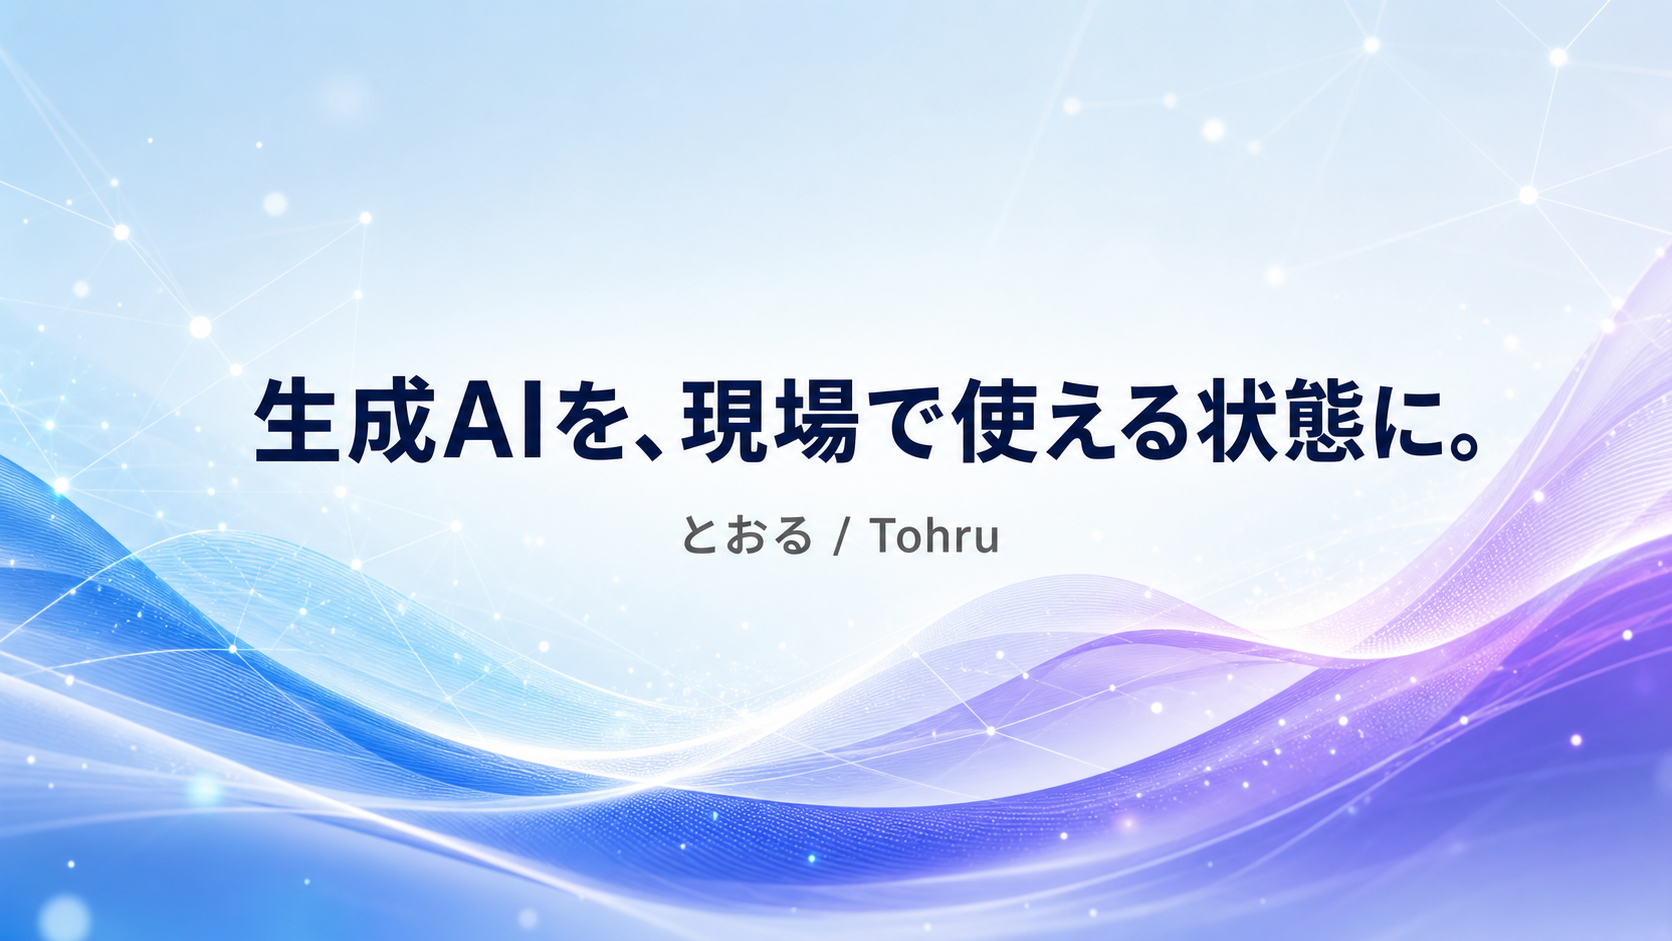
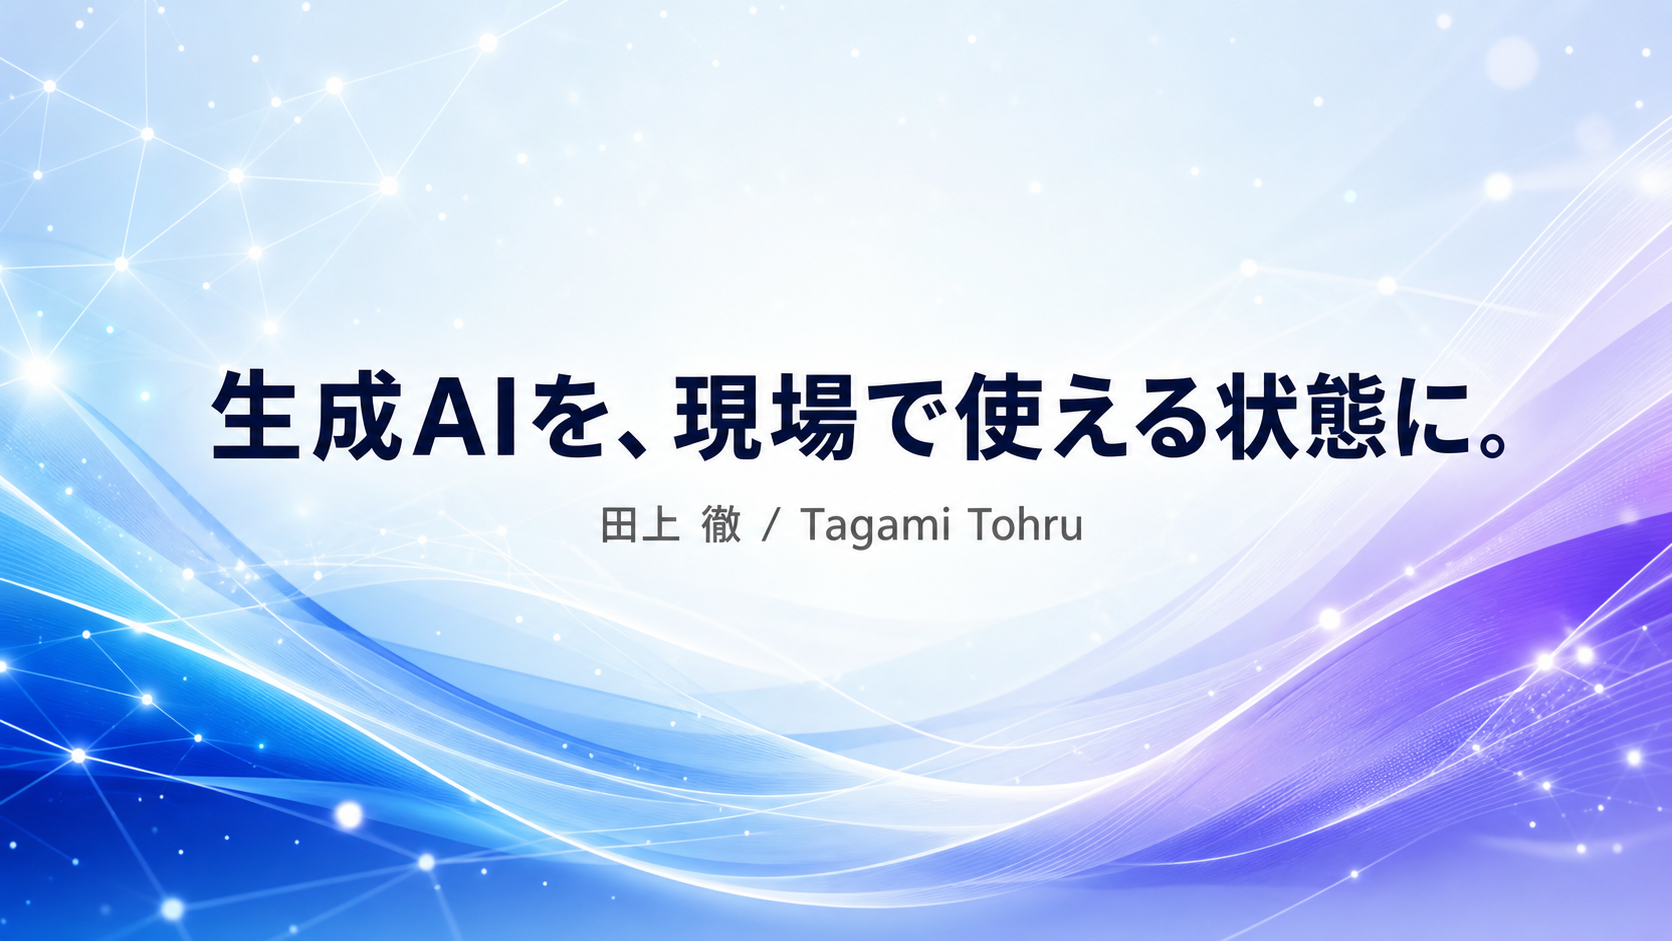
本名表記＋Codexレビュー対応: ご依頼の流れ・FAQ追加、実績の静的HTML化、構造化データ、CTA出し分け

diff --git a/index.html b/index.html
@@ -5,13 +5,13 @@
   <meta name="viewport" content="width=device-width, initial-scale=1.0">
 
   <!-- ★SEO: タイトル・説明文はここで編集 -->
-  <title>とおる｜AI活用支援とライティングのポートフォリオ</title>
-  <meta name="description" content="生成AIを現場で使える状態にするAIコンサルタント・とおるのポートフォリオ。AI活用支援、セミナー講師、ライティング、Web制作のご相談はnoteのDMからどうぞ。">
+  <title>田上徹｜AI活用支援とライティングのポートフォリオ</title>
+  <meta name="description" content="生成AIを現場で使える状態にするAIコンサルタント・田上徹（Tagami Tohru）のポートフォリオ。中小企業・個人事業主向けのAI活用支援、研修、ライティング、Web制作。初回相談は無料です。">
 
   <!-- OGP -->
   <meta property="og:type" content="website">
-  <meta property="og:title" content="とおる｜AI活用支援とライティングのポートフォリオ">
-  <meta property="og:description" content="生成AIを現場で使える状態にする。AI活用支援・セミナー講師・ライティング・Web制作のポートフォリオ。">
+  <meta property="og:title" content="田上徹｜AI活用支援とライティングのポートフォリオ">
+  <meta property="og:description" content="生成AIを、現場で使える状態に。中小企業・個人事業主向けのAI活用支援・研修・ライティング・Web制作。初回相談無料。">
   <meta property="og:url" content="https://tohru-ai.github.io/portfolio/">
   <meta property="og:image" content="https://tohru-ai.github.io/portfolio/images/ogp.png">
   <meta name="twitter:card" content="summary_large_image">
@@ -25,8 +25,20 @@
     gtag('js', new Date());
     gtag('config', 'G-KDS57TPQ6T');
   </script>
-  <!-- ★Search Console: HTMLタグ認証を使う場合は下のコメントを外して content を差し替え -->
-  <!-- <meta name="google-site-verification" content="ここに認証コード"> -->
+  <!-- 構造化データ: 検索エンジンに「誰が何を提供するサイトか」を伝える -->
+  <script type="application/ld+json">
+  {
+    "@context": "https://schema.org",
+    "@type": "Person",
+    "name": "田上 徹",
+    "alternateName": "Tagami Tohru",
+    "url": "https://tohru-ai.github.io/portfolio/",
+    "image": "https://tohru-ai.github.io/portfolio/images/ogp.png",
+    "jobTitle": "AIコンサルタント・セミナー講師・ウェブライター",
+    "sameAs": ["https://note.com/tohru_ai"],
+    "knowsAbout": ["生成AI活用支援", "AI研修・セミナー", "ライティング", "Web制作"]
+  }
+  </script>
 
   <link rel="icon" type="image/svg+xml" href="images/favicon.svg">
 
@@ -40,15 +52,14 @@
   <!-- 固定ヘッダー -->
   <header class="site-header">
     <div class="container header-inner">
-      <!-- ★名前: 漢字フルネーム確定後に差し替え -->
-      <a href="#top" class="logo">とおる <span class="logo-en">Tohru</span></a>
+      <a href="#top" class="logo">田上 徹 <span class="logo-en">Tagami Tohru</span></a>
       <nav class="global-nav">
         <a href="#services">できること</a>
-        <a href="#reasons">選ばれる理由</a>
         <a href="#works">実績</a>
+        <a href="#flow">ご依頼の流れ</a>
         <a href="#profile">プロフィール</a>
       </nav>
-      <a href="#contact" class="btn btn-header">DMで相談</a>
+      <a href="#contact" class="btn btn-header">無料相談</a>
     </div>
   </header>
 
@@ -60,10 +71,10 @@
         <p class="hero-tagline">生成AIを"使わせる"人</p>
         <h1 class="hero-title">生成AIを、<br class="sp-only"><span class="grad-text">現場で使える状態に。</span></h1>
         <p class="hero-lead">
-          AI活用支援・セミナー講師・ライティング・Web制作。<br>
+          中小企業・個人事業主のためのAI活用支援。<br>
           「知っている」で終わらせず、あなたの業務が実際に軽くなるところまで伴走します。
         </p>
-        <a href="#contact" class="btn btn-primary btn-large">DMで相談する</a>
+        <a href="#contact" class="btn btn-primary btn-large">無料で相談してみる</a>
       </div>
     </section>
 
@@ -92,22 +103,22 @@
         <p class="section-lead">4つの領域で、個人事業主・中小企業のみなさまをサポートします。</p>
         <div class="card-grid card-grid-4">
           <div class="card">
-            <img src="images/service-ai.png" alt="" class="card-icon" loading="lazy">
+            <img src="images/service-ai.png" alt="AI活用支援・コンサルのイメージイラスト" class="card-icon" loading="lazy">
             <h3>AI活用支援・コンサル</h3>
             <p>業務の棚卸しからツール選定・プロンプト設計まで。ChatGPT・Claude などの生成AIを、あなたの業務で実際に回る形に落とし込みます。</p>
           </div>
           <div class="card">
-            <img src="images/service-seminar.png" alt="" class="card-icon" loading="lazy">
+            <img src="images/service-seminar.png" alt="AIセミナー・研修のイメージイラスト" class="card-icon" loading="lazy">
             <h3>AIセミナー・研修</h3>
             <p>100名以上参加のセミナー登壇実績。未経験の方でも「明日から使える」状態を目指す、実演中心の研修を設計・実施します。</p>
           </div>
           <div class="card">
-            <img src="images/service-writing.png" alt="" class="card-icon" loading="lazy">
+            <img src="images/service-writing.png" alt="ライティング・note執筆のイメージイラスト" class="card-icon" loading="lazy">
             <h3>ライティング・note執筆</h3>
             <p>ウェブライター歴4年。SEO記事・note記事・導入事例の執筆など、読まれて成果につながる文章を書きます。</p>
           </div>
           <div class="card">
-            <img src="images/service-dev.png" alt="" class="card-icon" loading="lazy">
+            <img src="images/service-dev.png" alt="Web制作・ツール開発のイメージイラスト" class="card-icon" loading="lazy">
             <h3>Web制作・ツール開発</h3>
             <p>ホームページ・LP制作から業務効率化ツールの開発まで。AIを活用した低コスト・短納期の制作が得意です。</p>
           </div>
@@ -144,8 +155,28 @@
       <div class="container">
         <h2 class="section-title">実績・事例</h2>
         <p class="section-lead">導入事例や登壇レポートを note で公開しています。</p>
-        <div class="works-grid" id="works-grid">
-          <!-- articles.js から main.js が描画 -->
+        <!-- 記事を増やすときは下の <a class="work-card"> ブロックを1個コピーして書き換える -->
+        <div class="works-grid">
+          <a class="work-card" href="https://note.com/tohru_ai/n/n369f552c0dbd" target="_blank" rel="noopener">
+            <span class="work-tag">導入事例</span>
+            <h3 class="work-title">接骨院の予約管理はAIエージェントで変わる。Claude Code導入実演で見えた可能性とは</h3>
+            <p class="work-desc">独立した接骨院院長へのClaude Codeコンサルティング事例。AIエージェント導入の可能性を個人事業主・経営者向けに紹介。</p>
+          </a>
+          <a class="work-card" href="https://note.com/tohru_ai/n/n525ae0a3c954" target="_blank" rel="noopener">
+            <span class="work-tag">登壇事例</span>
+            <h3 class="work-title">【登壇事例】税理士向けにNotebookLMを実演｜税制改正大綱の読み解き・資料作成・横断比較まで</h3>
+            <p class="work-desc">時間が足りない税理士業務を NotebookLM で効率化。セミナー登壇での実演内容をレポート。</p>
+          </a>
+          <a class="work-card" href="https://note.com/tohru_ai/n/nf945f84e706c" target="_blank" rel="noopener">
+            <span class="work-tag">研修事例</span>
+            <h3 class="work-title">【研修事例】"音声×AI"を現場で使える状態にする研修設計（Aqua Voice勉強会）</h3>
+            <p class="work-desc">タイピングが苦手な層でも使える、音声入力×AI活用の研修設計と導入のポイント。</p>
+          </a>
+          <a class="work-card" href="https://note.com/tohru_ai/n/n6e347a6a2849" target="_blank" rel="noopener">
+            <span class="work-tag">導入事例</span>
+            <h3 class="work-title">【生成AI導入事例】2時間のデータ入力が15分に。ChatGPTでコンビニ業界の現場を変えた実践</h3>
+            <p class="work-desc">コンビニ店長の売上データ入力をChatGPT活用で87%削減。持ち帰り業務を解消した実例。</p>
+          </a>
         </div>
         <div class="works-more">
           <a href="https://note.com/tohru_ai" target="_blank" rel="noopener" class="btn btn-outline">note で記事一覧を見る</a>
@@ -153,26 +184,83 @@
       </div>
     </section>
 
+    <!-- ご依頼の流れ -->
+    <section class="section section-soft" id="flow">
+      <div class="container">
+        <h2 class="section-title">ご依頼の流れ</h2>
+        <p class="section-lead">初回相談は<strong>無料</strong>です。「何から手を付ければいいか分からない」段階で大丈夫です。</p>
+        <div class="flow-grid">
+          <div class="flow-step">
+            <div class="flow-num">1</div>
+            <h3>無料相談</h3>
+            <p>note のDMからお気軽にどうぞ。「こんなこと頼めるかな？」の段階で構いません。</p>
+          </div>
+          <div class="flow-step">
+            <div class="flow-num">2</div>
+            <h3>ヒアリング</h3>
+            <p>オンラインで現状の業務とお困りごとを伺います。課題の整理だけでも価値が出るよう進めます。</p>
+          </div>
+          <div class="flow-step">
+            <div class="flow-num">3</div>
+            <h3>ご提案・お見積もり</h3>
+            <p>内容・期間・費用を明示してご提案します。納得いただいてから着手します。</p>
+          </div>
+          <div class="flow-step">
+            <div class="flow-num">4</div>
+            <h3>実施・伴走</h3>
+            <p>納品して終わりではなく、現場で実際に回る状態になるまで伴走します。</p>
+          </div>
+        </div>
+      </div>
+    </section>
+
     <!-- プロフィール -->
-    <section class="section section-soft" id="profile">
+    <section class="section" id="profile">
       <div class="container profile-inner">
         <h2 class="section-title">プロフィール</h2>
         <!-- ★プロフィール写真: 用意でき次第 images/profile.jpg を置いて下のコメントを外す -->
         <!-- <img src="images/profile.jpg" alt="とおるのプロフィール写真" class="profile-photo"> -->
         <div class="profile-body">
-          <!-- ★名前: 漢字フルネーム確定後に差し替え -->
-          <p class="profile-name">とおる <span class="profile-name-en">/ Tohru</span></p>
+          <p class="profile-name">田上 徹 <span class="profile-name-en">/ Tagami Tohru</span></p>
           <p class="profile-role">AIコンサルタント・セミナー講師・ウェブライター</p>
           <p class="profile-story">
             ウェブライターとして4年間、読まれる文章と向き合ったのち、生成AIの可能性に出会いAIコンサルタント・セミナー講師として活動。
             5,000人在籍のAIスクールで800人以上の学習をサポートし、100名以上が参加するセミナーで講師を務める。
-            本業と育児のかたわら、副業として月10万円以上を継続して稼ぐ実践派。
+            接骨院・税理士・小売など、現場への導入支援の実例は実績セクションで公開中。
             モットーは「生成AIを"知っている"で終わらせず、現場で"使える状態"にする」。
           </p>
+          <ul class="profile-facts">
+            <li>全国オンライン対応</li>
+            <li>秘密保持に配慮（NDA締結のご相談可）</li>
+            <li>記事1本・セミナー1回など小さなご依頼から対応</li>
+          </ul>
           <div class="profile-sns">
             <a href="https://note.com/tohru_ai" target="_blank" rel="noopener" class="sns-link">note</a>
           </div>
         </div>
+      </div>
+    </section>
+
+    <!-- FAQ -->
+    <section class="section section-soft" id="faq">
+      <div class="container faq-inner">
+        <h2 class="section-title">よくあるご質問</h2>
+        <details class="faq-item">
+          <summary>相談だけでも大丈夫ですか？</summary>
+          <p>大歓迎です。初回相談は無料で、「何から手を付ければいいか分からない」という段階からで構いません。</p>
+        </details>
+        <details class="faq-item">
+          <summary>対応エリアはどこまでですか？</summary>
+          <p>全国オンライン対応です。ヒアリングから納品・伴走までオンラインで完結できます。</p>
+        </details>
+        <details class="faq-item">
+          <summary>業務情報の秘密保持は守られますか？</summary>
+          <p>お預かりした業務情報の取り扱いには細心の注意を払います。必要に応じてNDA（秘密保持契約）締結のご相談も可能です。</p>
+        </details>
+        <details class="faq-item">
+          <summary>小さな依頼でもお願いできますか？</summary>
+          <p>はい。記事1本の執筆、セミナー1回の登壇、1テーマだけのAI相談など、小さな単位からお受けしています。</p>
+        </details>
       </div>
     </section>
 
@@ -182,9 +270,12 @@
         <h2 class="section-title">お仕事のご相談</h2>
         <p class="contact-lead">
           AI活用支援・セミナー登壇・執筆・制作のご依頼やご相談は、<br class="pc-only">
-          note のクリエイターページからお気軽にメッセージください。
+          note のクリエイターページからお気軽にメッセージください。<strong>初回相談は無料</strong>です。
         </p>
-        <a href="https://note.com/tohru_ai" target="_blank" rel="noopener" class="btn btn-primary btn-large">note でDM・お問い合わせ</a>
+        <a href="https://note.com/tohru_ai" target="_blank" rel="noopener" class="btn btn-primary btn-large">note のDMで無料相談する</a>
+        <!-- ★問い合わせフォーム: GoogleフォームのURLが決まったら下のコメントを外して差し替え
+        <a href="GoogleフォームのURL" target="_blank" rel="noopener" class="btn btn-outline" style="margin-left:12px">フォームで問い合わせる</a>
+        -->
         <p class="contact-note">「こんなこと頼めるかな？」の段階でも大歓迎です。</p>
       </div>
     </section>
@@ -198,17 +289,18 @@
         <a href="#services">できること</a>
         <a href="#reasons">選ばれる理由</a>
         <a href="#works">実績</a>
+        <a href="#flow">ご依頼の流れ</a>
+        <a href="#faq">FAQ</a>
         <a href="#profile">プロフィール</a>
         <a href="#contact">お問い合わせ</a>
       </nav>
-      <p class="copyright">&copy; 2026 Tohru. All rights reserved.</p>
+      <p class="copyright">&copy; 2026 Tagami Tohru. All rights reserved.</p>
     </div>
   </footer>
 
   <!-- 追従CTA -->
-  <a href="#contact" class="floating-cta" id="floating-cta">DMで相談する</a>
+  <a href="#contact" class="floating-cta" id="floating-cta">無料相談する</a>
 
-  <script src="articles.js"></script>
   <script src="main.js"></script>
 </body>
 </html>

diff --git a/style.css b/style.css
@@ -320,6 +320,73 @@ a { color: var(--accent); text-decoration: none; }
 }
 .sns-link:hover { border-color: var(--accent); color: var(--accent); }
 
+/* ---------- ご依頼の流れ ---------- */
+.flow-grid {
+  display: grid;
+  grid-template-columns: repeat(4, 1fr);
+  gap: 24px;
+  margin-top: 48px;
+}
+.flow-step {
+  background: var(--bg);
+  border: 1px solid var(--border);
+  border-radius: var(--radius);
+  padding: 28px 24px;
+  text-align: center;
+}
+.flow-num {
+  width: 44px;
+  height: 44px;
+  line-height: 44px;
+  margin: 0 auto 16px;
+  border-radius: 50%;
+  background: var(--grad);
+  color: #fff;
+  font-weight: 900;
+  font-size: 1.2rem;
+}
+.flow-step h3 { font-size: 1.05rem; margin-bottom: 8px; }
+.flow-step p { font-size: 0.9rem; color: var(--muted); text-align: left; }
+
+/* ---------- FAQ ---------- */
+.faq-inner { max-width: 720px; }
+.faq-item {
+  background: var(--bg);
+  border: 1px solid var(--border);
+  border-radius: var(--radius);
+  padding: 20px 24px;
+  margin-bottom: 16px;
+}
+.faq-item summary {
+  font-weight: 700;
+  cursor: pointer;
+  list-style-position: inside;
+}
+.faq-item summary:hover { color: var(--accent); }
+.faq-item p {
+  margin-top: 12px;
+  color: var(--muted);
+  font-size: 0.95rem;
+}
+
+/* ---------- プロフィール補足 ---------- */
+.profile-facts {
+  list-style: none;
+  display: flex;
+  flex-wrap: wrap;
+  justify-content: center;
+  gap: 12px;
+  margin-bottom: 32px;
+}
+.profile-facts li {
+  font-size: 0.85rem;
+  font-weight: 700;
+  color: var(--accent);
+  background: var(--accent-soft);
+  padding: 6px 16px;
+  border-radius: 999px;
+}
+
 /* ---------- Contact ---------- */
 .contact {
   text-align: center;
@@ -409,7 +476,8 @@ a { color: var(--accent); text-decoration: none; }
 
   .card-grid-4,
   .card-grid-3,
-  .works-grid { grid-template-columns: 1fr; }
+  .works-grid,
+  .flow-grid { grid-template-columns: 1fr; }
 
   /* スマホは画面下の固定バーにする */
   .floating-cta {
@@ -420,5 +488,6 @@ a { color: var(--accent); text-decoration: none; }
     text-align: center;
     padding: 16px;
   }
-  body { padding-bottom: 0; }
+  /* 下部固定CTAがフッターを覆わないよう余白を確保 */
+  body { padding-bottom: 64px; }
 }

diff --git a/main.js b/main.js
@@ -22,39 +22,10 @@
   });
 })();
 
-// 実績カードの描画
-(function renderWorks() {
-  const grid = document.getElementById("works-grid");
-  if (!grid || typeof articles === "undefined") return;
-
-  articles.forEach((article) => {
-    const card = document.createElement("a");
-    card.className = "work-card";
-    card.href = article.url;
-    card.target = "_blank";
-    card.rel = "noopener";
-
-    const tag = document.createElement("span");
-    tag.className = "work-tag";
-    tag.textContent = article.tag;
-
-    const title = document.createElement("h3");
-    title.className = "work-title";
-    title.textContent = article.title;
-
-    const desc = document.createElement("p");
-    desc.className = "work-desc";
-    desc.textContent = article.description;
-
-    card.append(tag, title, desc);
-    grid.appendChild(card);
-  });
-})();
-
 // スクロール連動アニメーション: 要素が見えたらふわっと出す
 (function scrollReveal() {
   const targets = document.querySelectorAll(
-    ".card, .reason, .work-card, .stat, .section-title, .section-lead, .profile-body, .contact-lead, .works-more"
+    ".card, .reason, .work-card, .stat, .flow-step, .faq-item, .section-title, .section-lead, .profile-body, .contact-lead, .works-more"
   );
   if (!targets.length || !("IntersectionObserver" in window)) return;
 
